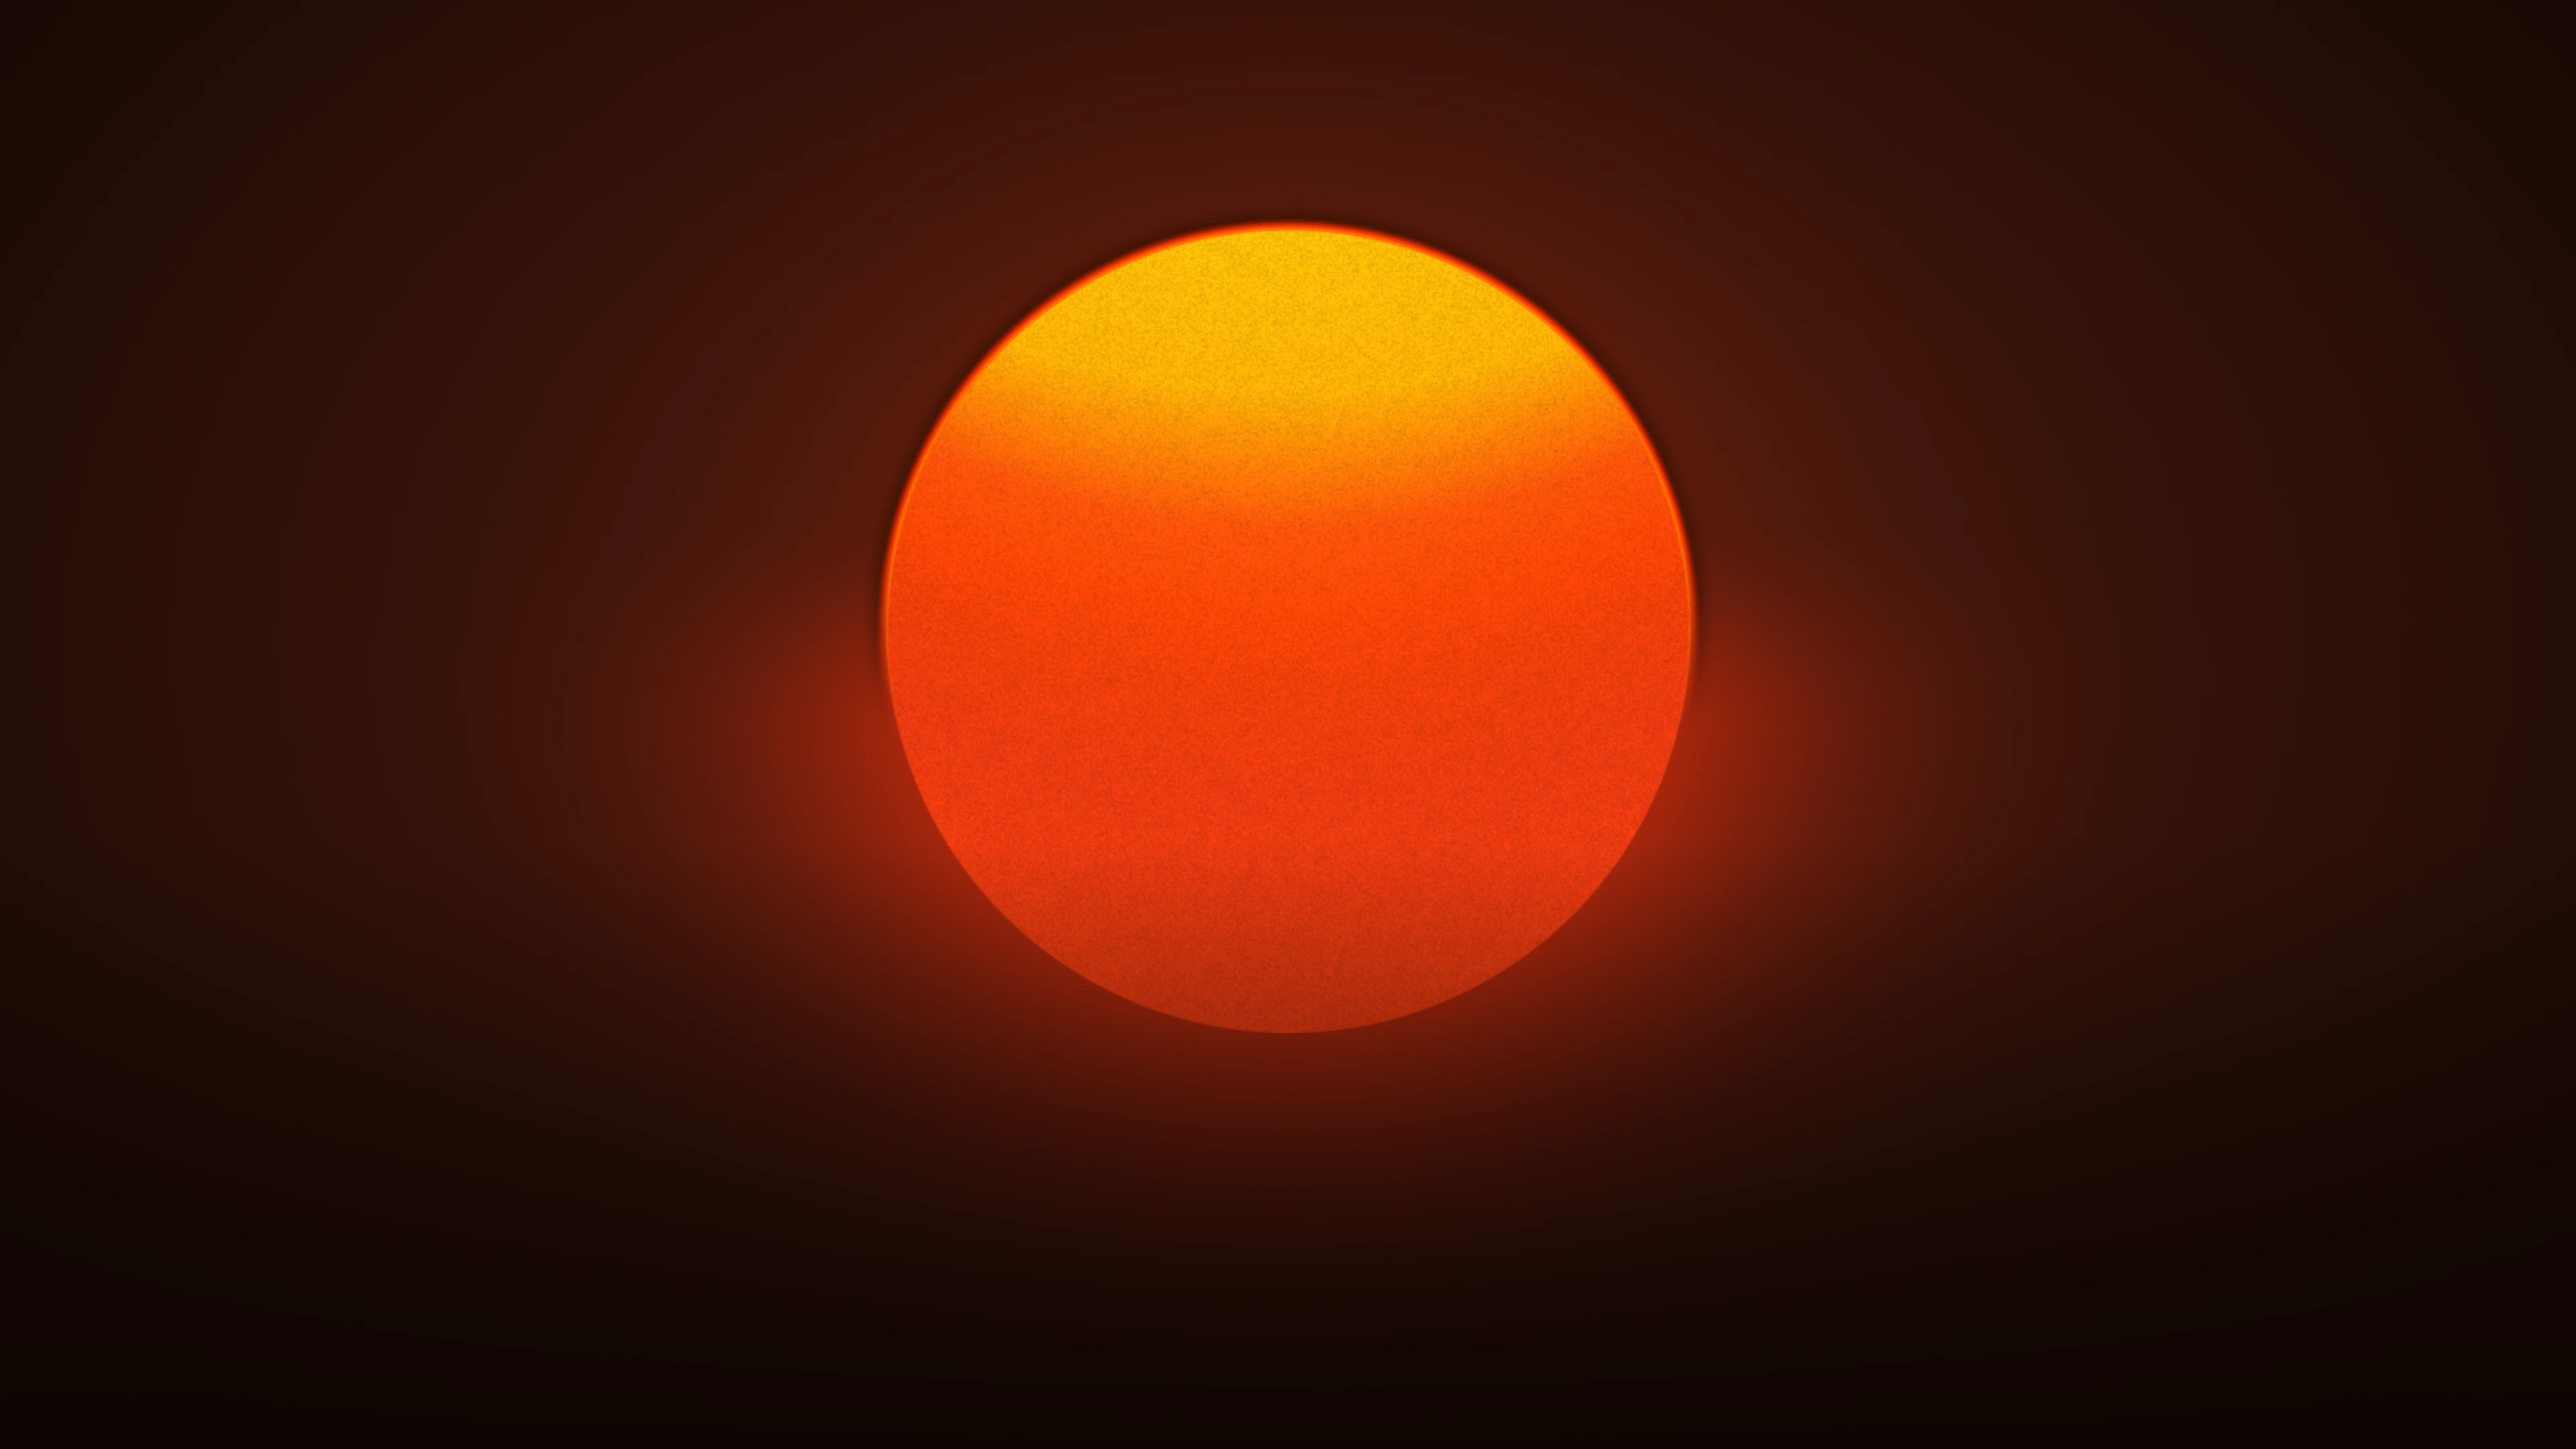
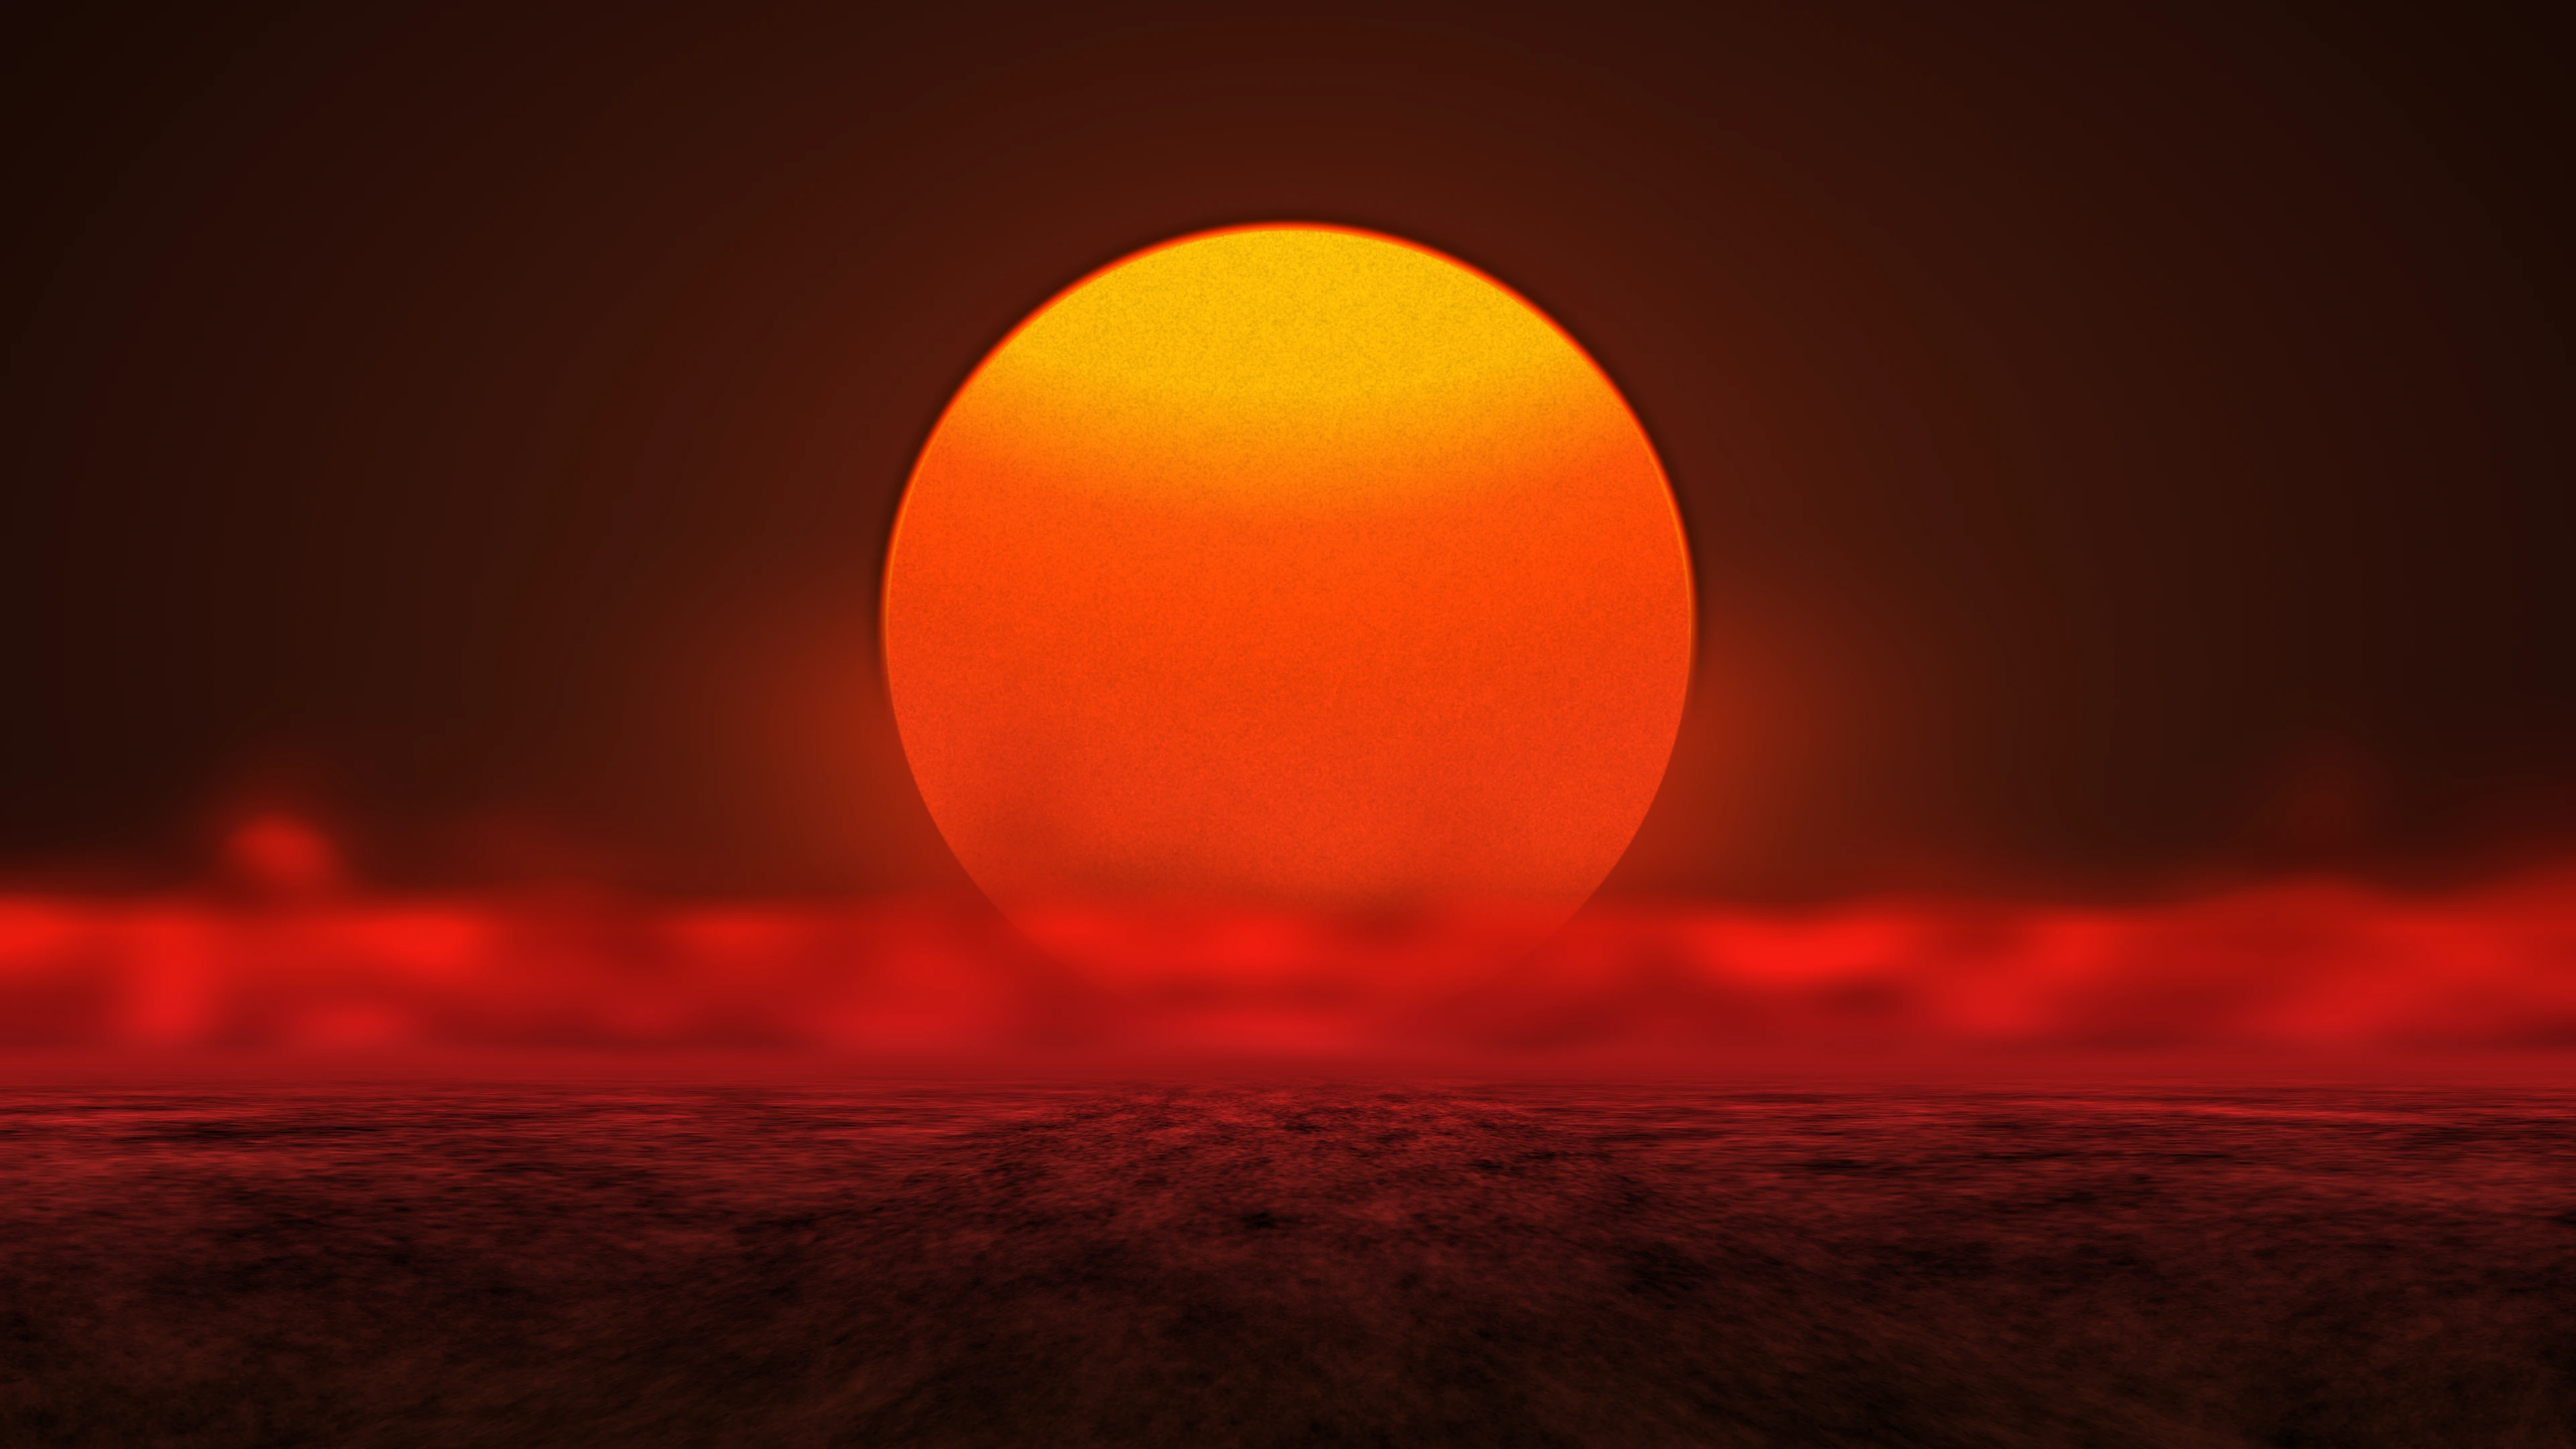
Add a horizon and a textured ground to the wallpaper
Below the sun the wallpaper now has the poster's horizon and ground (without its
figures): a red haze along the horizon, smoky and uneven, which the sun's lower
rim sinks into, and a dark maroon ground below it. The horizon is 3.6% of the sun's
diameter below the sun's rim, as on the poster, and the ground is 27% of the height.

The haze and ground colours are the poster's median colours at each distance from
its horizon, measured down its left edge where nothing stands over it. The ground's
colours are spread over twice the distance, so that it emerges from the haze
instead of stepping down from it: a hard edge there was confusing. The haze rises
gradually, its faint tail is displaced by slow dust noise and its body brightened
and dimmed by clouds; only the tail moves, since displacing the bright body made a
wavy ridge, and the dust is wide and tall so it cannot fold over itself.

The ground's texture is drawn in perspective, as ground seen at a grazing angle:
fine grit flattened into streaks at the horizon, broad clods near the viewer, fading
in out of the haze. Each pixel's place on the ground is looked up in four noise
images, at four scales; the two coarse ones blend toward an un-slanted lookup at
the far sides, since true perspective drags big features into diagonal streaks
there. Each noise layer is divided by its own standard deviation, so the amplitudes
are the variation each adds. Overall strength is the poster's (about 20%); its
[…]

diff --git a/README.md b/README.md
@@ -38,10 +38,21 @@ and it never removes a package. Every check for every extra you select runs befo
   red-orange below the middle, which is what lets a yellow title read on it. The yellow does not run to the edge:
   above the horizon the rim is a thin orange-to-red ring with a dark outer glow, as on the poster. Its glow is
   warm and strong beside the lower half and almost absent above the center line. It carries a faint seeded grain
-  with a little mottle. It does not use studio artwork.
+  with a little mottle. Below the sun it has the poster's horizon and ground, without the figures: a red haze, smoky
+  and uneven, along the horizon, which the sun's lower rim sinks into, and below it a dark maroon ground, gritty and
+  streaked sideways near the horizon, darkening to near black. The horizon sits 3.6% of the sun's diameter below the
+  sun's rim, as on the poster, and the ground is 27% of the height. The colours are the poster's own median colours
+  at each distance from its horizon (the haze is the poster's; the ground's colours are spread over twice the distance, so
+  it comes out of the haze instead of stepping down from it). The texture is drawn in perspective, as ground seen at
+  a grazing angle is: fine grit at the horizon, flattened into streaks, growing into broad clods and patches of soil near
+  the viewer, and fading in out of the haze. Its overall strength is the poster's (about 20% variation in brightness);
+  its change of scale with depth is not, since on the poster the texture is the same size all the way down. The
+  comments in `make-wallpaper.sh` give the numbers and how they were measured. The poster's sparks over the ground are left to the Embers plugin.
+  It is made from measurements of the poster, and does not use studio artwork.
   `make-wallpaper.sh out.png` writes a PNG; convert it with `magick out.png -quality 92 backgrounds/1-sinners-sun.webp`.
   Earlier versions are kept in `research/wallpapers/` (v1: symmetric red glow and a smooth gold-centered sun; v2: poster colors;
-  v3, the version before the limb ring, is not kept, since it only differs by that ring).
+  v3, the version before the limb ring, is not kept, since it only differs by that ring; v4: the limb ring, texture and
+  title-ready colours, with a plain dark gradient where the ground now is).
 - `icons.theme`: GTK icon theme (`Yaru-red`).
 - `hyprland.lua`: the window borders (the gradient from `colors.toml`) and a faint orange glow on the focused window,
   made with Hyprland's window shadow: 18px at about 9% of the sun's orange, and none on unfocused windows.
@@ -119,7 +130,8 @@ one screen size, and it is only correct on that one: the default is 1920x1200 (`
     tools/verify-sun.py [WxH]              # checks the alignment against the wallpaper, about two minutes
 
 The sun's size and position are read from `make-wallpaper.sh`, so the two cannot drift apart; rebuild the unlock
-screen after changing the wallpaper. The title spans 92% of the sun's width, as on the poster (measured there), and
+screen after changing the wallpaper, as the haze and the ground over the sun's lower rim are part of its colour (the sun's
+bottom edge sinks into the haze on the unlock screen too). The title spans 92% of the sun's width, as on the poster (measured there), and
 is centered on the sun: on the poster it sits a little low only because it is part of a text block that is itself
 centered. Its lemon on the sun measures 3.1:1, the poster's own contrast. The logo is 1600x960 on a 1920x1200 screen, which puts the password field
 at y=1120. The sun's grain is seeded, so the logo's sun has exactly the wallpaper's pixels. Where it differs: the
